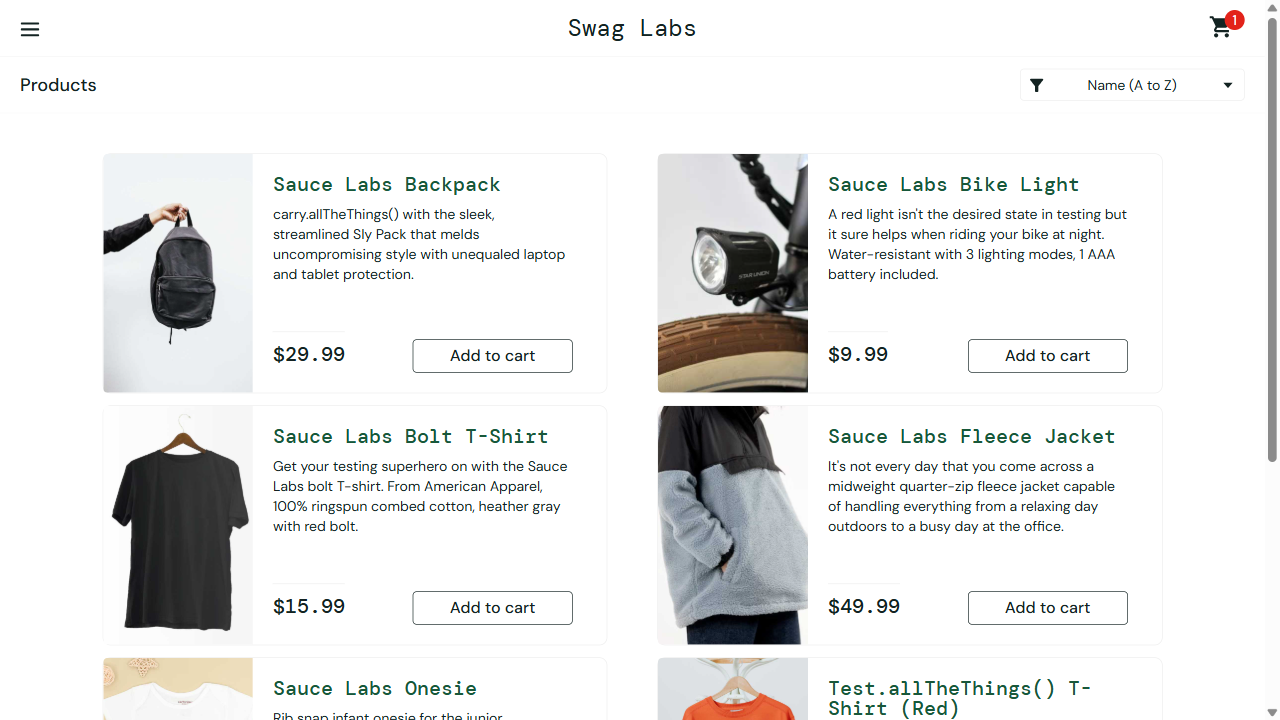
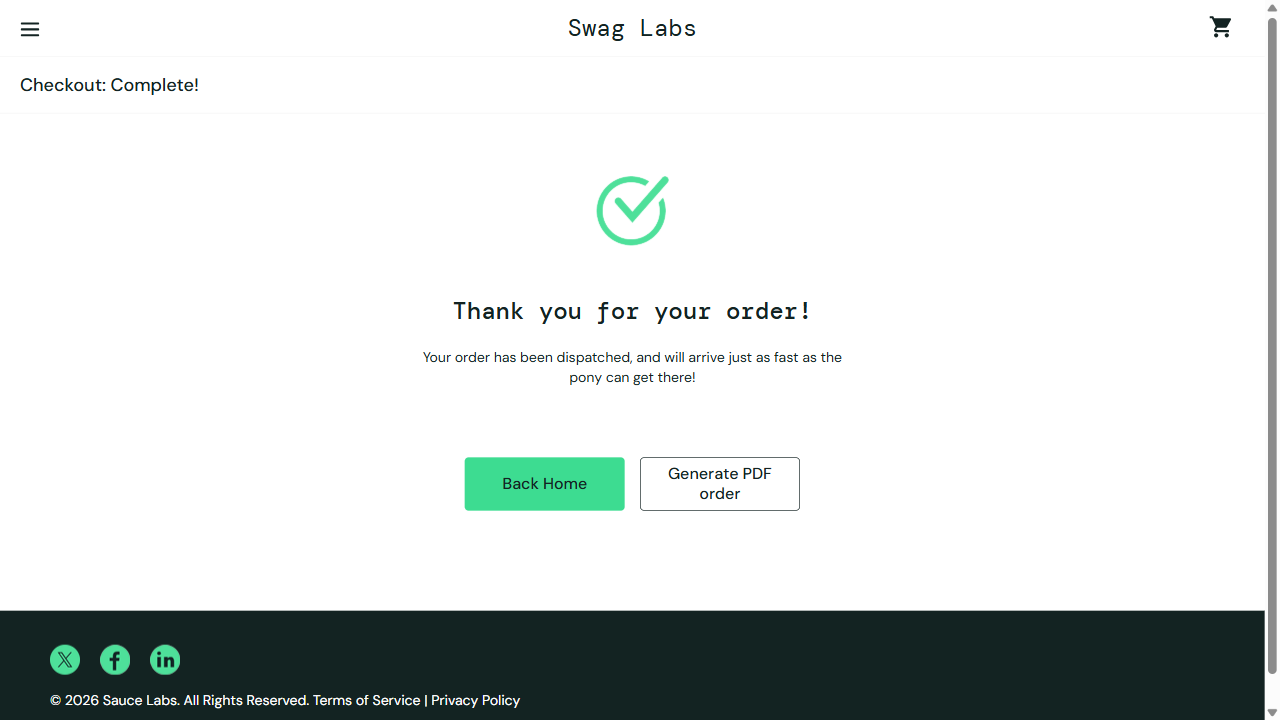
TEST

diff --git a/tests/LoginTest.spec.js b/tests/LoginTest.spec.js
@@ -65,7 +65,13 @@ await homePage.productCard3Select();
 
 await pdp.clickAddToCartBtn();
 await pdp.clickOnCart();
-await checkout1.contShopping();
+await cartPage.openCartPage(); 
+await checkout1.OpencheckoutPage2(row.firstName, row.lastName, row.zipCode);
+//await checkout1.contShopping();
+await checkout2.opencheckout2o();
+
+//await this.GeneratePDF.click();
+
 //await pdp.clickOnCart();
 //await homePage.openSidebarMenu(testdata.clickCross);
 

diff --git a/src/pages/CheckoutComplete.js b/src/pages/CheckoutComplete.js
@@ -10,8 +10,11 @@ exports.CheckoutComplete = class CheckoutComplete
     }
     async checkoutMessage(){
         await expect(this.thankyoumessage).toBeVisible();
-        await this.generatePDFOrder.click();
         await this.backtoHome.click();
+
+    }
+    async GeneratePDF(){
+    await this.generatePDFOrder.click();
 
     }
 }

diff --git a/src/pages/LoginPage.js b/src/pages/LoginPage.js
@@ -14,6 +14,8 @@ exports.LoginPage = class LoginPage {
     await this.usernameInput.fill(username);
     await this.passwordInput.fill(password);
     await this.clickLogin.click();
+    //await this.opencheckout2o.click();
+    //await this.checkoutMessage.click();
     //asfgsfdfsdr
     //wsrfgbawQW
  ////BJHIIII
